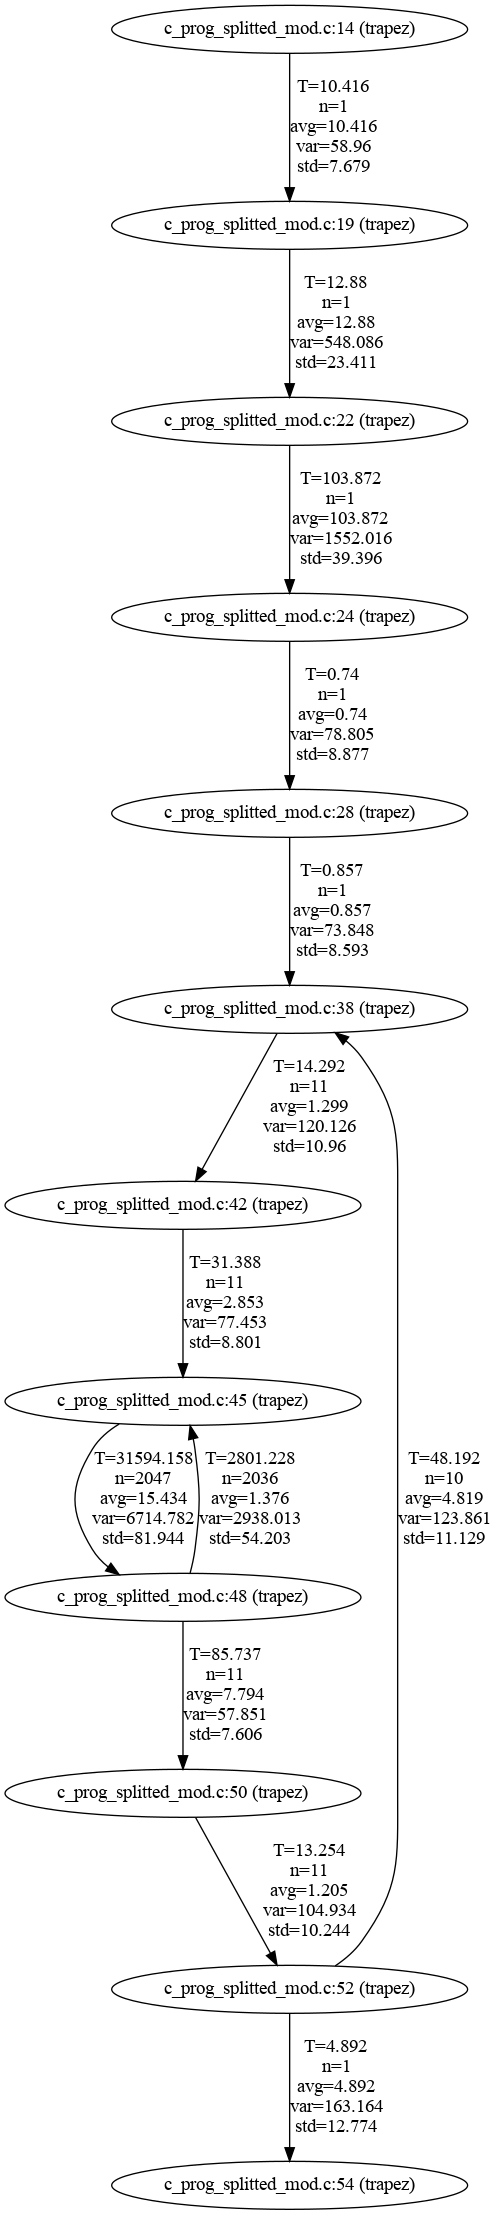
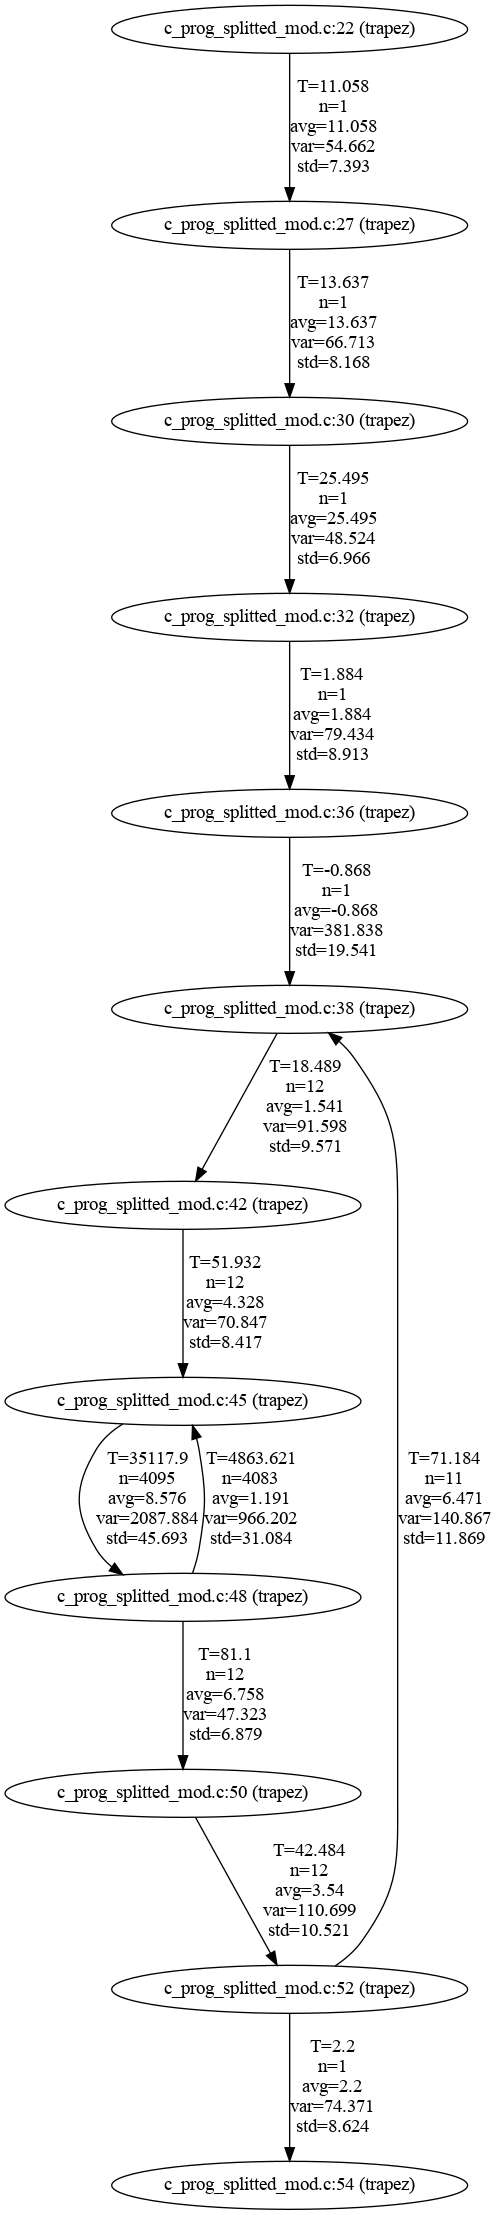
change objective function

diff --git a/L3/c_prog.c b/L3/c_prog.c
@@ -1,15 +1,20 @@
-#include "sampler.h"
-#include <stdio.h>
 #include <math.h>
 
-const double tol = 1.0e-6;
-double sum, upper, lower;
+/* integration by the trapezoidal rule */
 
-double fx(double x)
-{
-    return 1.0 / sqrt(x);
+const double  tol = 1.0E-6;
+double sum,upper,lower;
+
+/* find f(x)=1/x */
+/* watch out for x=0 ! */
+double fx(double x) {
+    return 1.0/x;
 }
 
+/* numerical integration by the trapezoid method */
+/* function is FX, limits are LOWER and UPPER */
+/* with number of regions equal to PIECES */
+/* fixed partition is DELTA_X, answer is SUM */
 void trapez(double lower, double upper, double tol, double* sum) {
     int pieces, i;
     double x, delta_x, end_sum, mid_sum, sum1;
@@ -17,30 +22,25 @@ void trapez(double lower, double upper, double tol, double* sum) {
     pieces = 1;
     delta_x = (upper - lower)/pieces;
     end_sum = fx(lower) + fx(upper);
-    *sum = end_sum * delta_x / 2.0;
+    *sum = end_sum*delta_x / 2.0;
     mid_sum = 0.0;
+    
     do {
         pieces = pieces*2;
         sum1 = *sum;
-        delta_x = (upper-lower)/pieces;
-        for(i = 1; i <= pieces / 2; i++)
-        {
-            x = lower + delta_x * (2.0 * i - 1.0);
+        delta_x = (upper - lower)/pieces;
+        for (i = 1; i <= pieces/2; i++) {
+            x = lower+delta_x*(2.0*i - 1.0);
             mid_sum = mid_sum + fx(x);
         }
-        *sum = (end_sum + 2.0 * mid_sum) * delta_x * 0.5;
-    } while ( fabs(*sum - sum1) > fabs(tol*(*sum)));
+        *sum = (end_sum + 2.0*mid_sum)*delta_x*0.5;
+    }
+    while (fabs(*sum - sum1) > fabs(tol*(*sum)));
 }
 
-int main(int argc, char **argv) {
-    sampler_init(&argc, argv);
+int main() {
     lower = 1.0;
     upper = 9.0;
-    // printf("\n");
-    SAMPLE;
-    trapez(lower,upper,tol,&sum);
-    SAMPLE;
-    // printf("\n");
+    trapez(lower,upper,tol, &sum);
     // printf("area= %.16e\n", sum);
-    return 0;
 }

diff --git a/L3/c_prog_splitted_mod.c b/L3/c_prog_splitted_mod.c
@@ -2,14 +2,22 @@
 #include <stdio.h>
 #include <math.h>
 
+/* integration by the trapezoidal rule */
+
+
 const double tol = 1.0e-6;
 double upper, lower;
 
-double fx(double x)
-{
-    return 1.0 / sqrt(x);
+/* find f(x)=1/x */
+/* watch out for x=0 ! */
+double fx(double x) {
+    return 1.0/x;
 }
 
+/* numerical integration by the trapezoid method */
+/* function is FX, limits are LOWER and UPPER */
+/* with number of regions equal to PIECES */
+/* fixed partition is DELTA_X, answer is SUM */
 double trapez(double lower, double upper, double tol) {
     SAMPLE;
     double x;
@@ -26,14 +34,6 @@ double trapez(double lower, double upper, double tol) {
     double mid_sum = 0.0;
     double sum = end_sum * delta_x / 2.0;
     SAMPLE;
-    // pieces = 1;
-    // delta_x = (upper - lower)/pieces;
-    // SAMPLE;
-    // end_sum = isqrt(lower) + isqrt(upper);
-    // SAMPLE;
-    // *sum = end_sum * delta_x / 2.0;
-    // mid_sum = 0.0;
-    // SAMPLE;
     do {
         SAMPLE;
         pieces = pieces << 1;
@@ -59,9 +59,7 @@ int main(int argc, char **argv) {
     sampler_init(&argc, argv);
     lower = 1.0;
     upper = 9.0;
-    // printf("\n");
     double sum = trapez(lower,upper,tol);
-    // printf("\n");
     // printf("area= %.16e\n", sum);
     return 0;
 }

diff --git a/L3/c_prog_splitted.c b/L3/c_prog_splitted.c
@@ -2,14 +2,21 @@
 #include <stdio.h>
 #include <math.h>
 
+/* integration by the trapezoidal rule */
+
 const double tol = 1.0e-6;
 double sum, upper, lower;
 
-double fx(double x)
-{
-    return 1.0 / sqrt(x);
+/* find f(x)=1/x */
+/* watch out for x=0 ! */
+double fx(double x) {
+    return 1.0/x;
 }
 
+/* numerical integration by the trapezoid method */
+/* function is FX, limits are LOWER and UPPER */
+/* with number of regions equal to PIECES */
+/* fixed partition is DELTA_X, answer is SUM */
 void trapez(double lower, double upper, double tol, double* sum) {
     SAMPLE;
     int pieces, i;
@@ -48,9 +55,7 @@ int main(int argc, char **argv) {
     sampler_init(&argc, argv);
     lower = 1.0;
     upper = 9.0;
-    // printf("\n");
     trapez(lower,upper,tol,&sum);
-    // printf("\n");
     // printf("area= %.16e\n", sum);
     return 0;
 }
